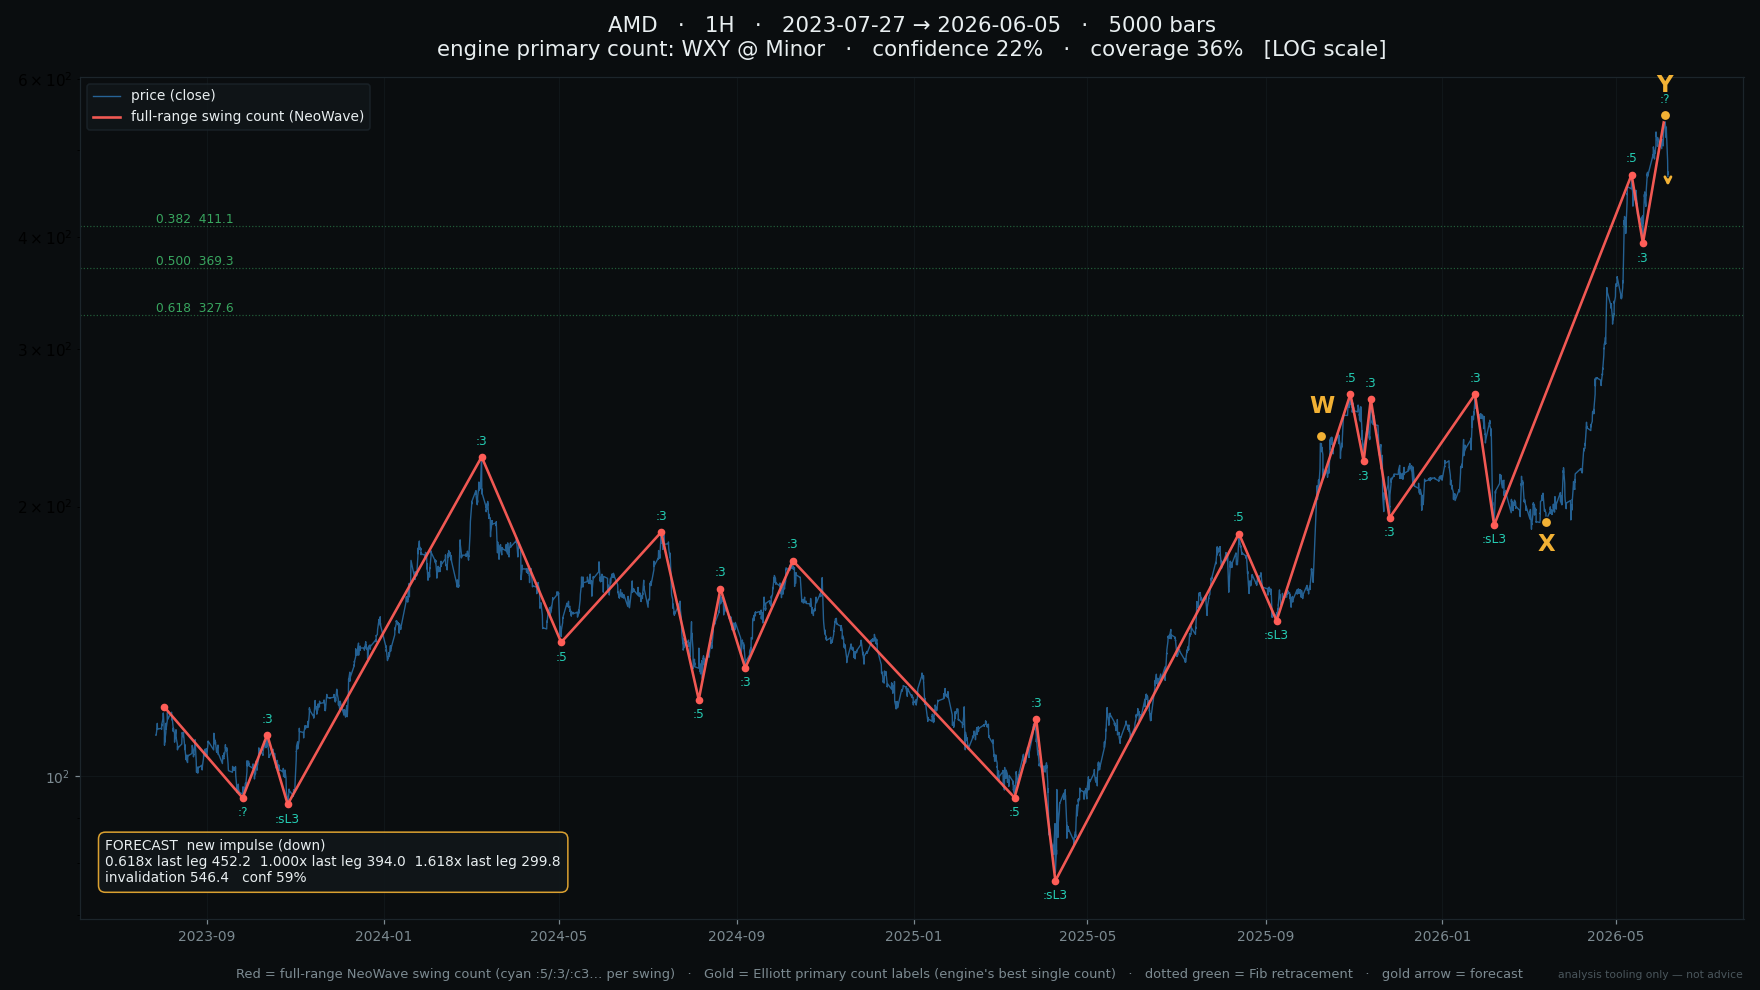
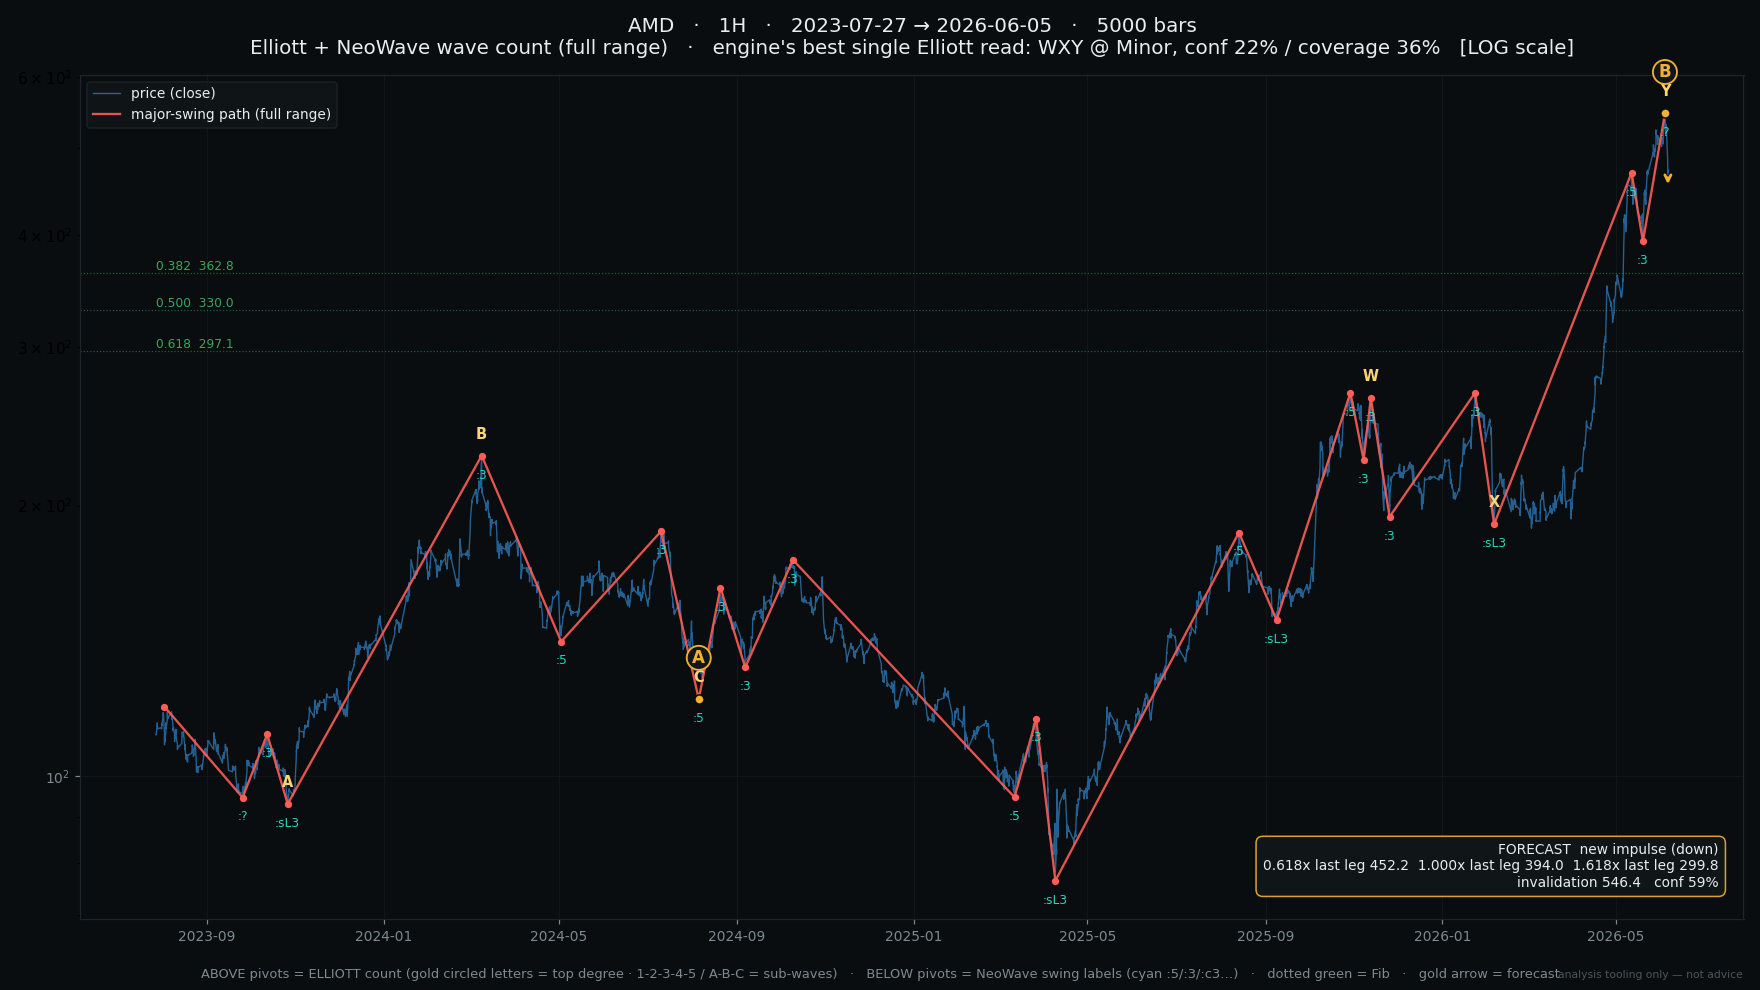
charts: show BOTH Elliott (full-range nested count, above pivots) and NeoWave (below)
Previously the Elliott labels were confined to wave_counts' low-coverage sub-range
(squished in a corner) so the charts read as NeoWave-only. Now the Elliott count is
rendered full-range from the wave tree: gold circled letters = top-degree segments,
1-2-3-4-5 / A-B-C / W-X-Y = sub-waves, placed ABOVE each pivot; NeoWave :5/:3 stays
BELOW. Forecast box moved to the empty lower-right. Both counts now span the whole
history on all 25 charts (5 semis x 5 timeframes).

diff --git a/scripts/wave_charts.py b/scripts/wave_charts.py
@@ -94,43 +94,54 @@ def build_chart(slug, name, tf_label, tag, scales, outpath):
     if use_log:
         ax.set_yscale("log")
 
-    # --- FULL-RANGE swing count (NeoWave): a coarse causal zigzag spanning the
-    #     entire history, every swing labelled :5/:3/:c3/... so the count is present
-    #     start->end (what wave_counts' DP fails to do — it picks a sub-range). ---
+    # --- NeoWave per-swing labels (BELOW each pivot, cyan): :5/:3/:c3/... over a
+    #     coarse causal zigzag spanning the entire history start->end. ---
     piv = adaptive_zigzag(bars)
     if len(piv) >= 3:
         zx = [dt(p.t) for p in piv]
         zy = [p.price for p in piv]
-        ax.plot(zx, zy, color=RED, lw=1.7, alpha=0.95, zorder=5,
-                label="full-range swing count (NeoWave)")
-        ax.scatter(zx, zy, color=RED, s=16, zorder=6)
+        ax.plot(zx, zy, color=RED, lw=1.5, alpha=0.9, zorder=5,
+                label="major-swing path (full range)")
+        ax.scatter(zx, zy, color=RED, s=14, zorder=6)
         lab = wl.label_monowaves(piv)
         for (w, l) in lab:
-            up = w.end.price >= w.start.price
             ax.annotate(l.split("(")[0], (dt(w.end.t), w.end.price),
-                        textcoords="offset points", xytext=(0, 8 if up else -12),
-                        ha="center", color=CYAN, fontsize=8, alpha=0.9, zorder=7)
+                        textcoords="offset points", xytext=(0, -15),
+                        ha="center", color=CYAN, fontsize=8, alpha=0.95, zorder=7)
 
-    cov = conf = 0.0
-    patt = degl = "n/a"
-    if pc and pc.labels:
-        patt, degl, conf, cov = pc.pattern, pc.degree_label, pc.confidence, pc.coverage
-        # Elliott primary count overlaid in GOLD where the engine places it
-        for (lab, node) in pc.labels:
-            up = node.end.price >= node.start.price
-            ax.scatter([dt(node.end.t)], [node.end.price], color=GOLD, s=46,
-                       zorder=8, edgecolor=BG, linewidth=1)
-            ax.annotate(lab, (dt(node.end.t), node.end.price),
-                        textcoords="offset points", xytext=(0, 15 if up else -19),
-                        ha="center", color=GOLD, fontsize=15, fontweight="bold", zorder=9)
-        # Fibonacci retracement of the dominant leg (labels on the LEFT edge)
-        dom = max(pc.labels, key=lambda ln: abs(ln[1].end.price - ln[1].start.price))[1]
-        a, b = dom.start.price, dom.end.price
+    # --- ELLIOTT WAVE count (ABOVE each pivot, gold): full-range nested count from
+    #     the wave tree — top-degree segments (Ⓐ Ⓑ Ⓒ …) + their sub-waves
+    #     (1-2-3-4-5 / A-B-C / W-X-Y). Spans start->end, unlike wave_counts' DP. ---
+    TOP = "ABCDEFGHIJKLMNOPQRSTUVWXYZ"
+    if len(piv) >= 3:
+        for k, node in enumerate(wl.build_tree_from_pivots(piv)):
+            ax.scatter([dt(node.end.t)], [node.end.price], color=GOLD, s=36, zorder=8,
+                       edgecolor=BG, linewidth=1)
+            ax.annotate(TOP[k] if k < len(TOP) else "+",
+                        (dt(node.end.t), node.end.price), textcoords="offset points",
+                        xytext=(0, 27), ha="center", va="center", color=GOLD, fontsize=11,
+                        fontweight="bold", zorder=9,
+                        bbox=dict(boxstyle="circle,pad=0.18", fc="#11161a", ec=GOLD, lw=1.2))
+            if len(node.children) >= 2:
+                seq = subseq(node.pattern, len(node.children))
+                for i, ch in enumerate(node.children):
+                    ax.annotate(seq[i], (dt(ch.end.t), ch.end.price),
+                                textcoords="offset points", xytext=(0, 11), ha="center",
+                                color="#ffd479", fontsize=9.5, fontweight="bold", zorder=8)
+        # Fib retracement of the largest full-range swing (labels on the LEFT edge)
+        seg = max(((piv[i], piv[i + 1]) for i in range(len(piv) - 1)),
+                  key=lambda pr: abs(pr[1].price - pr[0].price))
+        a, b = seg[0].price, seg[1].price
         for r in (0.382, 0.5, 0.618):
             lv = b - (b - a) * r
             ax.axhline(lv, color=GREEN, lw=0.8, ls=":", alpha=0.4)
             ax.annotate(f"{r:.3f}  {lv:,.1f}", (dates[0], lv), color=GREEN,
                         fontsize=8, ha="left", va="bottom", alpha=0.75)
+
+    cov = conf = 0.0
+    patt = degl = "n/a"
+    if pc and pc.labels:
+        patt, degl, conf, cov = pc.pattern, pc.degree_label, pc.confidence, pc.coverage
 
     # forecast next move
     fc = None
@@ -145,25 +156,25 @@ def build_chart(slug, name, tf_label, tag, scales, outpath):
         ftxt = ("FORECAST  " + fc.next_wave + "\n"
                 + "  ".join(f"{l} {p:,.1f}" for l, p in fc.targets)
                 + f"\ninvalidation {fc.invalidation:,.1f}   conf {fc.confidence:.0%}")
-        ax.text(0.015, 0.04, ftxt, transform=ax.transAxes, color=INK, fontsize=9,
-                va="bottom", ha="left",
+        ax.text(0.985, 0.035, ftxt, transform=ax.transAxes, color=INK, fontsize=9,
+                va="bottom", ha="right",
                 bbox=dict(boxstyle="round,pad=0.5", fc="#11161a", ec=GOLD, alpha=0.9))
 
     span = f"{dates[0].date()} → {dates[-1].date()}"
     ax.set_title(f"{name}   ·   {tf_label}   ·   {span}   ·   {len(bars)} bars\n"
-                 f"engine primary count: {patt} @ {degl}   ·   confidence {conf:.0%}"
-                 f"   ·   coverage {cov:.0%}"
+                 f"Elliott + NeoWave wave count (full range)   ·   engine's best single "
+                 f"Elliott read: {patt} @ {degl}, conf {conf:.0%} / coverage {cov:.0%}"
                  + ("   [LOG scale]" if use_log else ""),
-                 color=INK, fontsize=14, pad=14)
+                 color=INK, fontsize=13, pad=14)
     ax.tick_params(colors="#7c8a91", labelsize=9)
     for s in ax.spines.values():
         s.set_color(GRID)
     ax.grid(color=GRID, lw=0.5, alpha=0.5)
     ax.legend(loc="upper left", facecolor="#11161a", edgecolor=GRID,
               labelcolor=INK, fontsize=9)
-    sub = ("Red = full-range NeoWave swing count (cyan :5/:3/:c3… per swing)   ·   "
-           "Gold = Elliott primary count labels (engine's best single count)   ·   "
-           "dotted green = Fib retracement   ·   gold arrow = forecast")
+    sub = ("ABOVE pivots = ELLIOTT count (gold circled letters = top degree · "
+           "1-2-3-4-5 / A-B-C = sub-waves)   ·   BELOW pivots = NeoWave swing labels "
+           "(cyan :5/:3/:c3…)   ·   dotted green = Fib   ·   gold arrow = forecast")
     fig.text(0.5, 0.012, sub, ha="center", color="#7c8a91", fontsize=8.5)
     fig.text(0.99, 0.012, "analysis tooling only — not advice", ha="right",
              color="#4a565c", fontsize=7)
